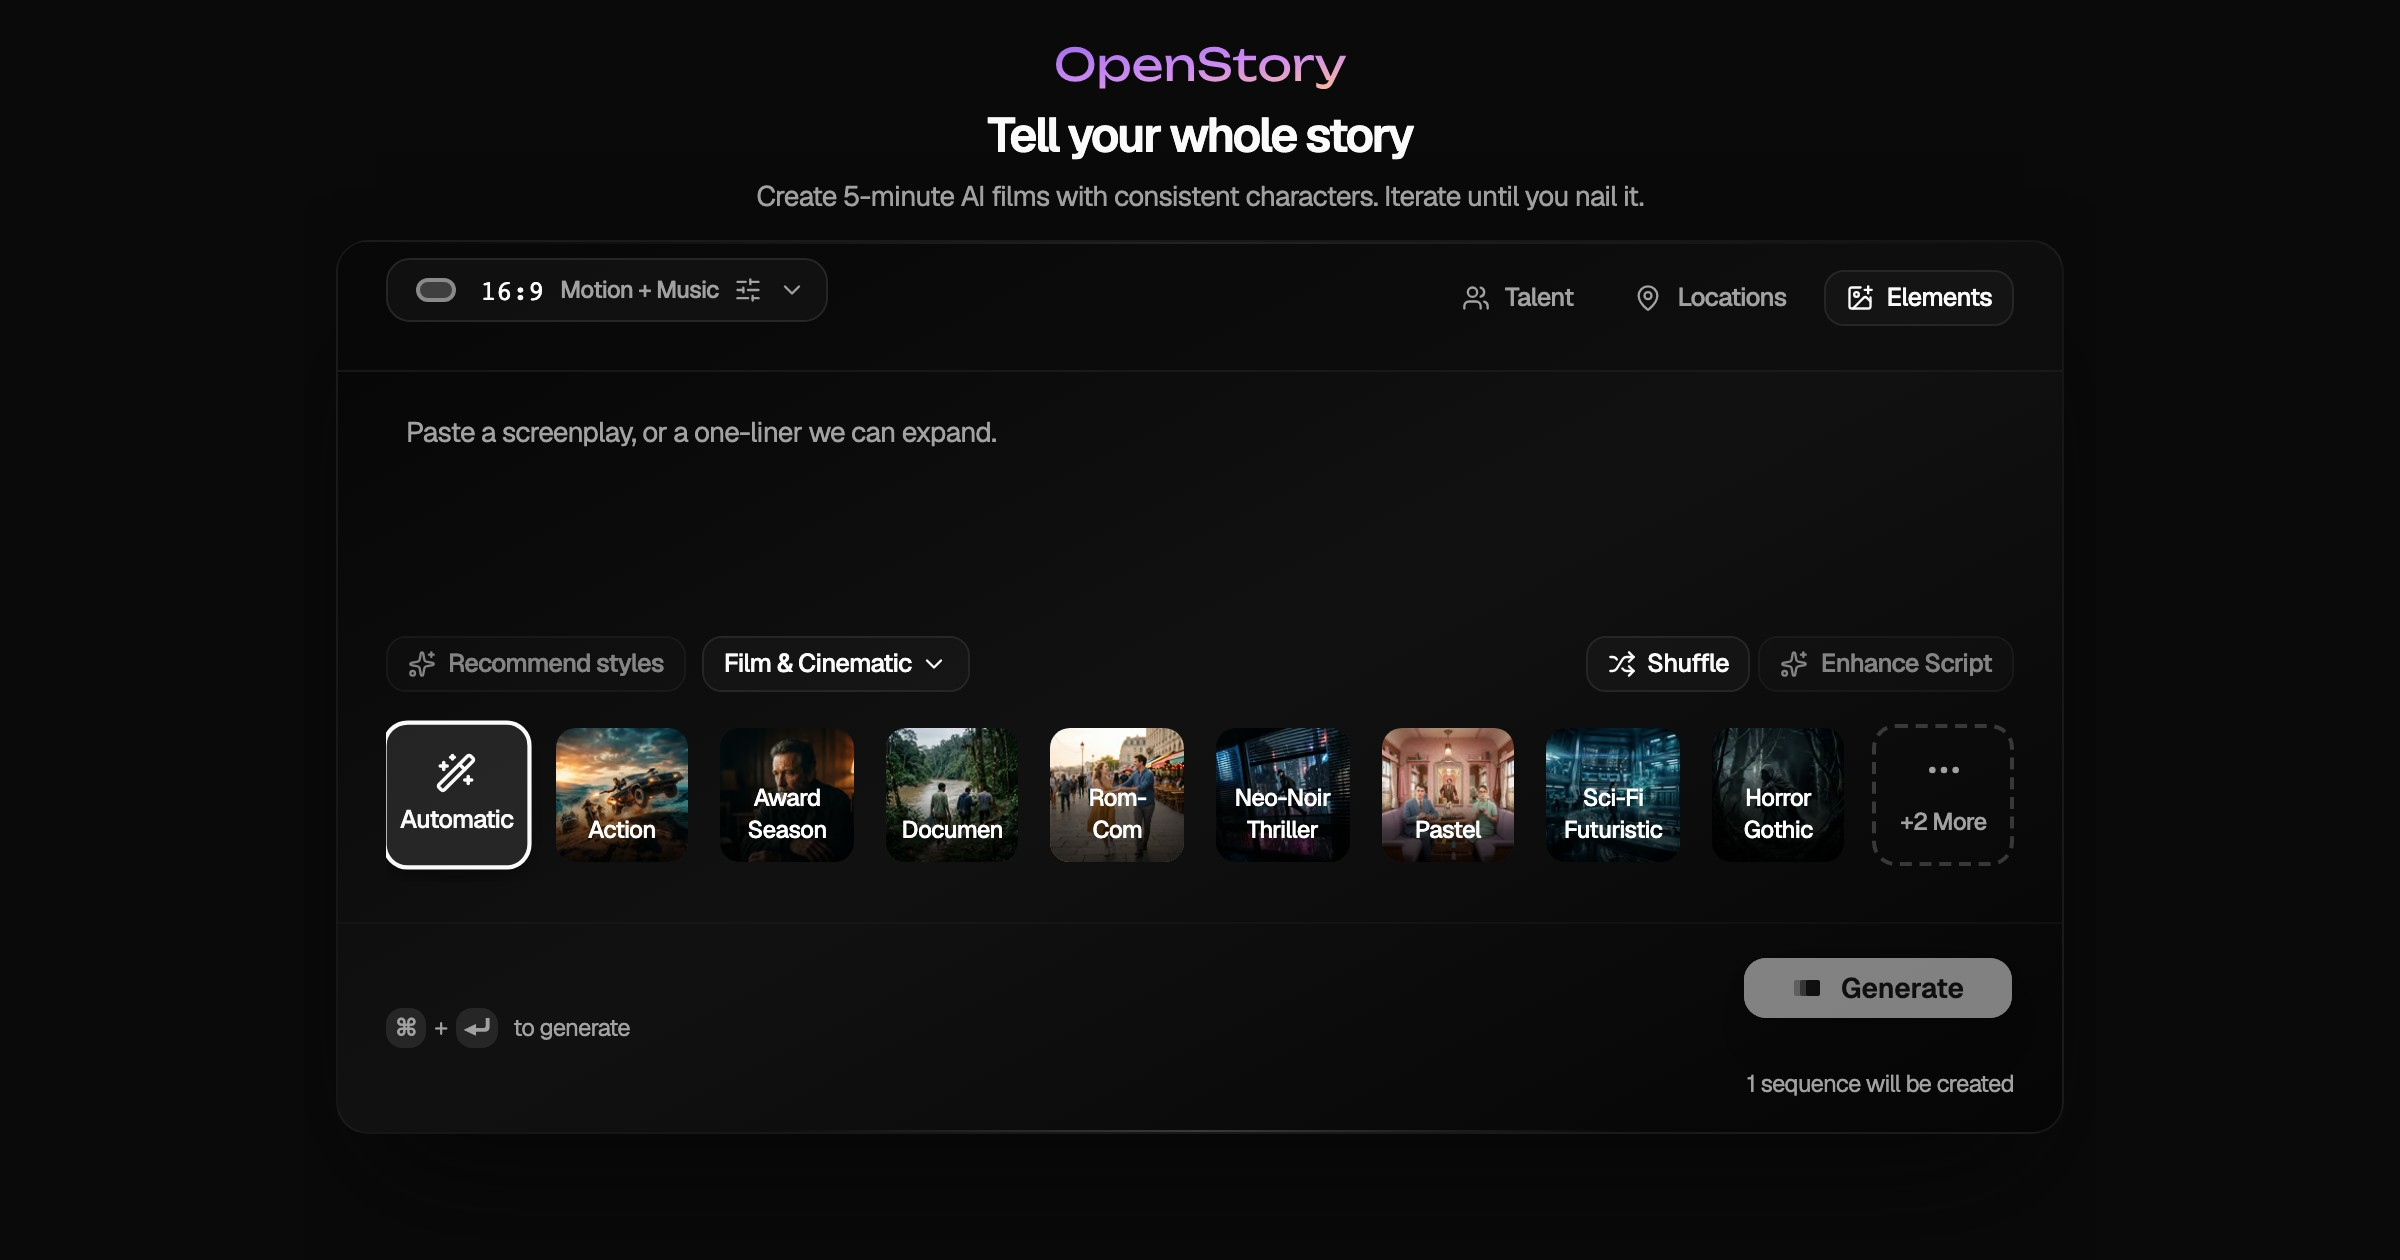
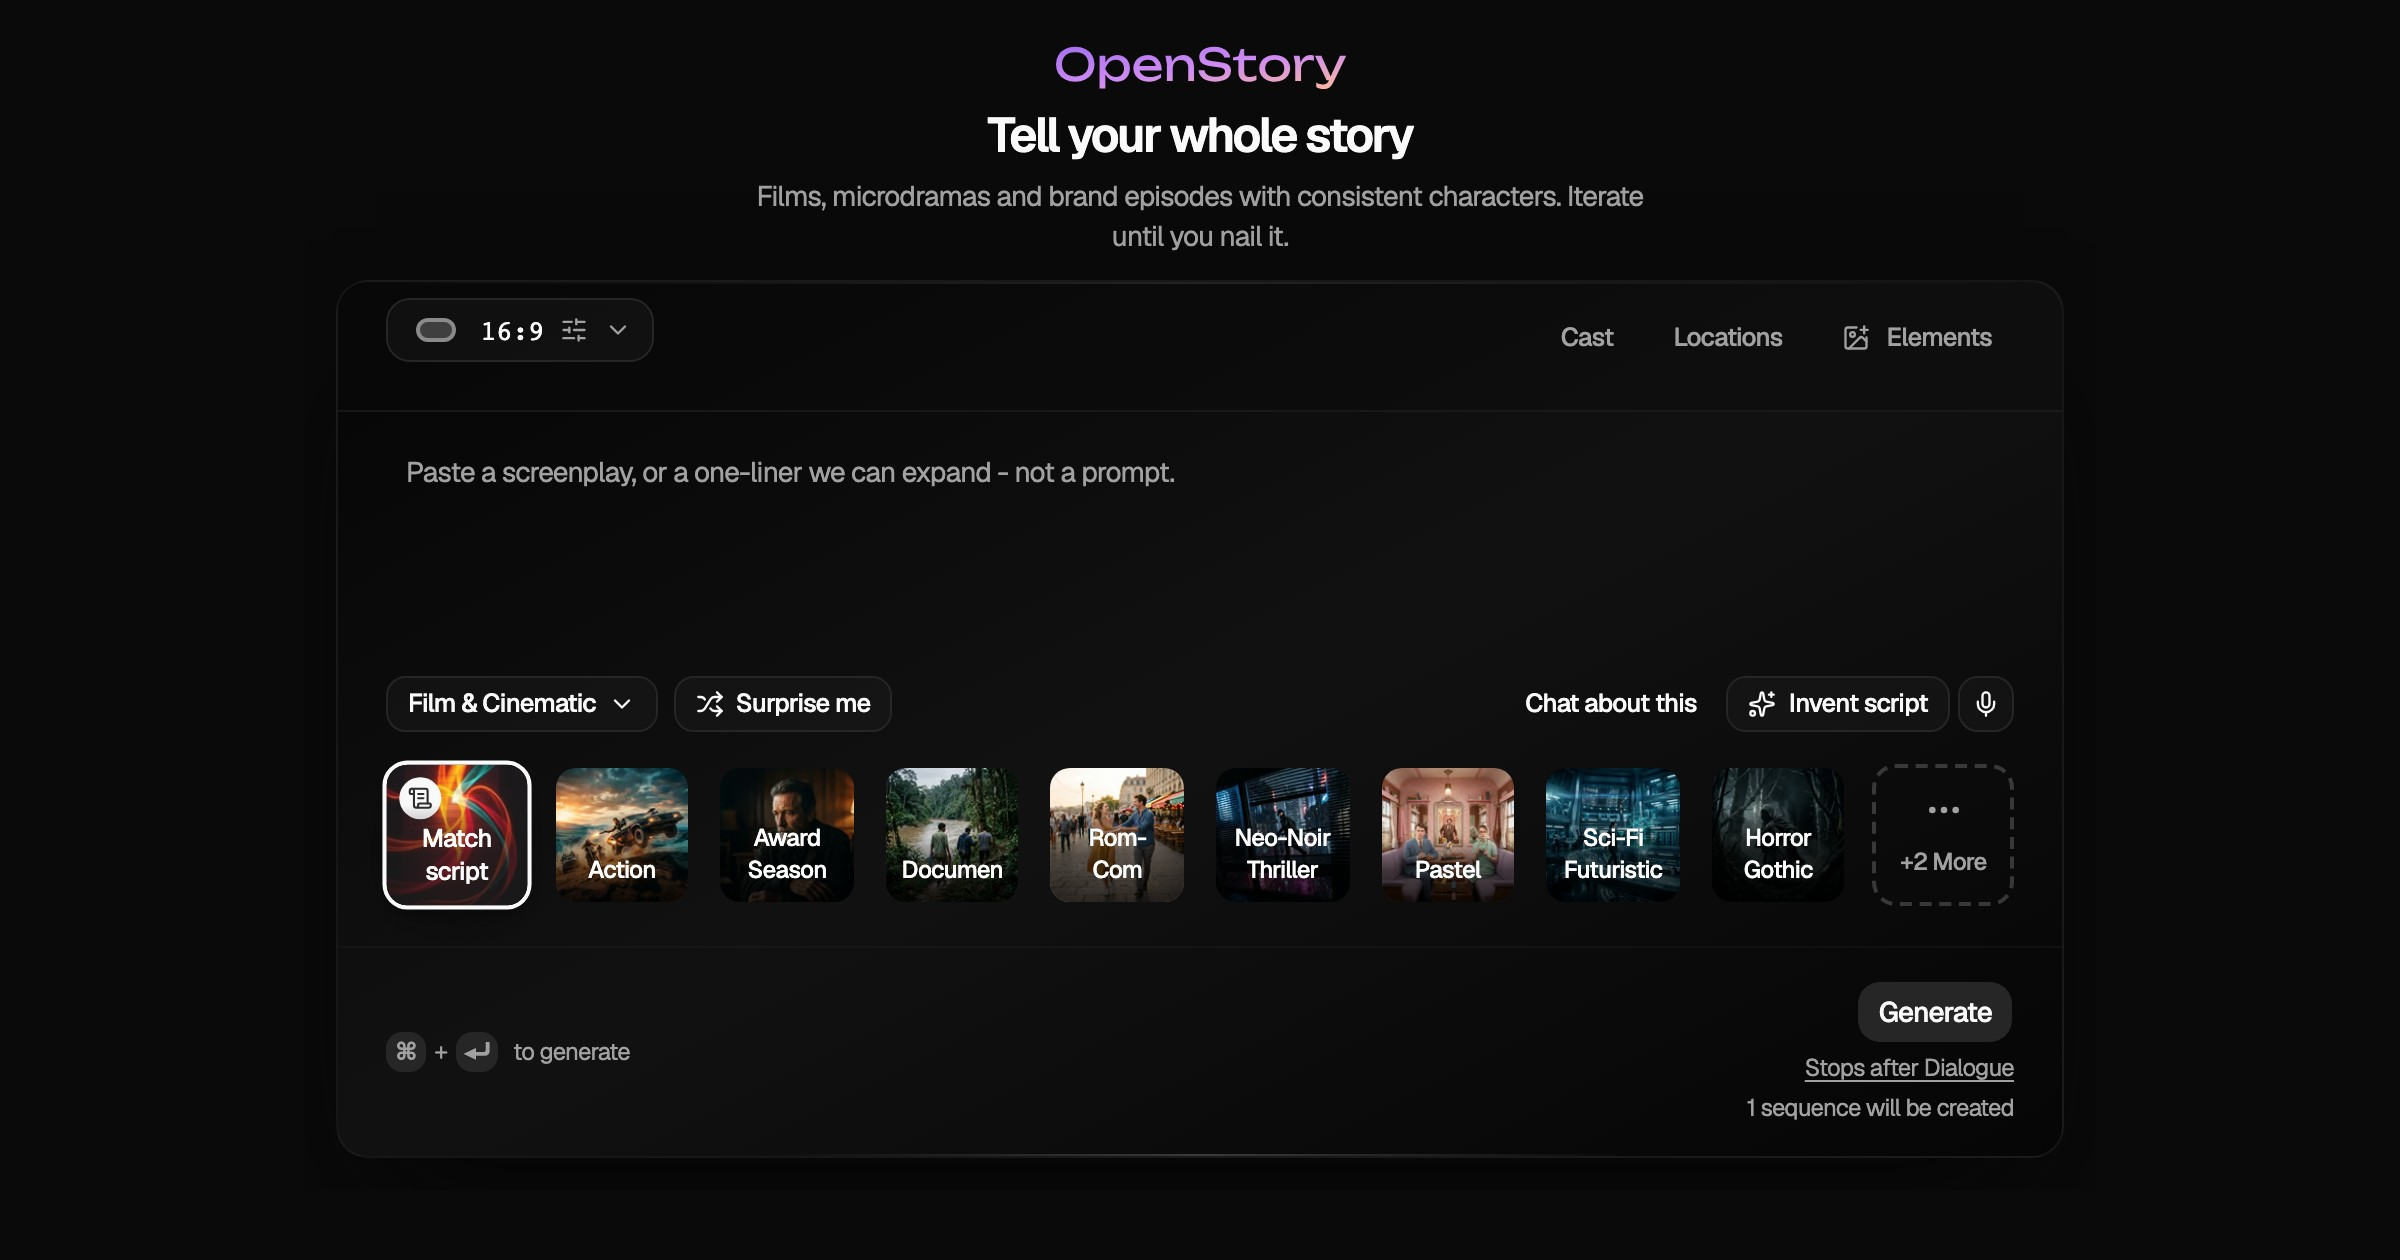
Front page line names films, microdramas and brand episodes; regenerate OG card

diff --git a/scripts/generate-og-image.ts b/scripts/generate-og-image.ts
@@ -39,24 +39,11 @@ await page
 await page.evaluate(() => document.fonts.ready);
 await page.waitForTimeout(500);
 
-// Drop the nav so the hero centers in the card instead of sitting off to the
-// right behind it. The sidebar must be *removed*, not just display:none'd: the
-// OpenStory logo fills from an SVG gradient (id="twilight-dark") that the
-// sidebar's own logo also defines first in the DOM, and a display:none gradient
-// stops painting — so the hero logo only resolves its own def once the sidebar
-// node is gone. Also drop the breadcrumb header (chrome, no logo).
-await page.evaluate(() => {
-  document.querySelector('[data-slot="sidebar"]')?.remove();
-  document.querySelector('[data-slot="sidebar-inset"] > header')?.remove();
-  // Drop the "See what you can create" sample showcase below the composer so
-  // it doesn't peek into the bottom of the card.
-  document.querySelector('#compose ~ section')?.remove();
-});
-// Hide the dev-only TanStack devtools overlay (absent in prod builds). CSS wins
-// over the client re-mounting the trigger.
+// Hide the Sign in header, the sample clips under the composer, and the
+// dev-only TanStack devtools overlay. CSS wins over a client re-render.
 await page.addStyleTag({
   content:
-    '[data-testid="tanstack_devtools"], #tanstack_devtools { display: none !important; }',
+    '[data-slot="sidebar-inset"] > header, section[aria-label="Sample clips"], [data-testid="tanstack_devtools"], #tanstack_devtools { display: none !important; }',
 });
 
 await mkdir(dirname(OUT), { recursive: true });

diff --git a/src/ui/marketing/constants.ts b/src/ui/marketing/constants.ts
@@ -20,12 +20,12 @@ export const FOUNDER_EMAIL = 'tom@openstory.so';
 export const SITE_CONFIG = {
   name: APP_NAME,
   description:
-    'Create 5-minute AI films with consistent characters. Iterate until you nail it. Open source and free to self-host.',
+    'Films, microdramas and brand episodes with consistent characters. Iterate until you nail it. Open source and free to self-host.',
   /** Logged-out homepage heading. */
   tagline: 'Tell your whole story',
   /** Logged-out homepage subtitle — what the product does. */
   taglineSub:
-    'Create 5-minute AI films with consistent characters. Iterate until you nail it.',
+    'Films, microdramas and brand episodes with consistent characters. Iterate until you nail it.',
   url: APP_URL,
   contactEmail: CONTACT_EMAIL,
   privacyEmail: PRIVACY_EMAIL,
@@ -115,7 +115,7 @@ export const FAQ_ITEMS = [
   {
     question: 'What is OpenStory?',
     answer:
-      'OpenStory is an open source AI video production platform. Paste a script or a one-liner and it builds a multi-scene film \u2014 consistent characters, locations, and look across every shot, up to around five minutes. Iterate on scenes until you nail it, then export. Free to self-host.',
+      'OpenStory is an open source AI video production platform. Paste a script or a one-liner and it builds a multi-scene film \u2014 consistent characters, locations, and look across every shot. Iterate on scenes until you nail it, then export. Free to self-host.',
   },
   {
     question: 'Do I need to write a full script?',

diff --git a/src/ui/marketing/constants.test.ts b/src/ui/marketing/constants.test.ts
@@ -3,11 +3,15 @@ import { FAQ_ITEMS, SITE_CONFIG } from './constants';
 import { buildLlmsTxt } from '@/platform/server/agent/llms';
 
 describe('SITE_CONFIG messaging (#1255)', () => {
-  it('explains longer consistent films and iteration', () => {
-    expect(SITE_CONFIG.description).toMatch(/5-minute AI films/i);
+  it('names the formats, consistent characters and iteration', () => {
+    expect(SITE_CONFIG.description).toMatch(
+      /films, microdramas and brand episodes/i
+    );
     expect(SITE_CONFIG.description).toMatch(/consistent characters/i);
     expect(SITE_CONFIG.description).toMatch(/iterate until you nail it/i);
-    expect(SITE_CONFIG.taglineSub).toMatch(/5-minute AI films/i);
+    expect(SITE_CONFIG.taglineSub).toMatch(
+      /films, microdramas and brand episodes/i
+    );
     expect(SITE_CONFIG.taglineSub).toMatch(/iterate until you nail it/i);
   });
 

diff --git a/e2e/tests/auth.spec.ts b/e2e/tests/auth.spec.ts
@@ -22,7 +22,7 @@ baseTest.describe('Route Protection', () => {
       ).toBeVisible();
       await expect(
         page.getByText(
-          'Create 5-minute AI films with consistent characters. Iterate until you nail it.'
+          'Films, microdramas and brand episodes with consistent characters. Iterate until you nail it.'
         )
       ).toBeVisible();
       // The composer's Generate button is the sign-in control; the header has
